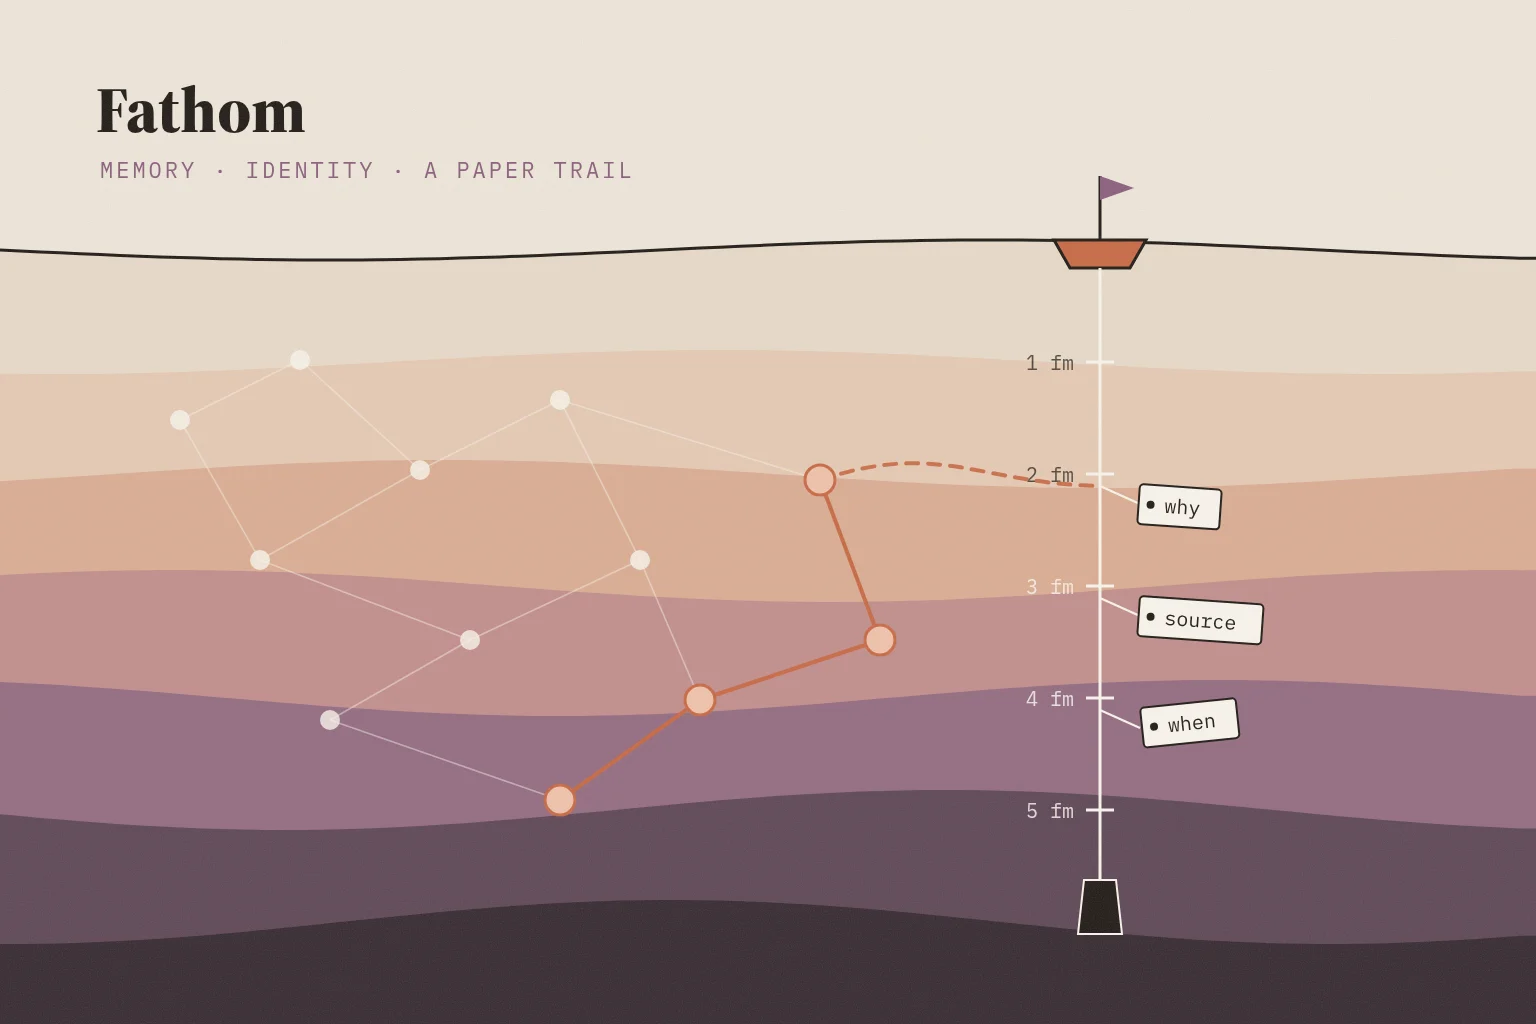
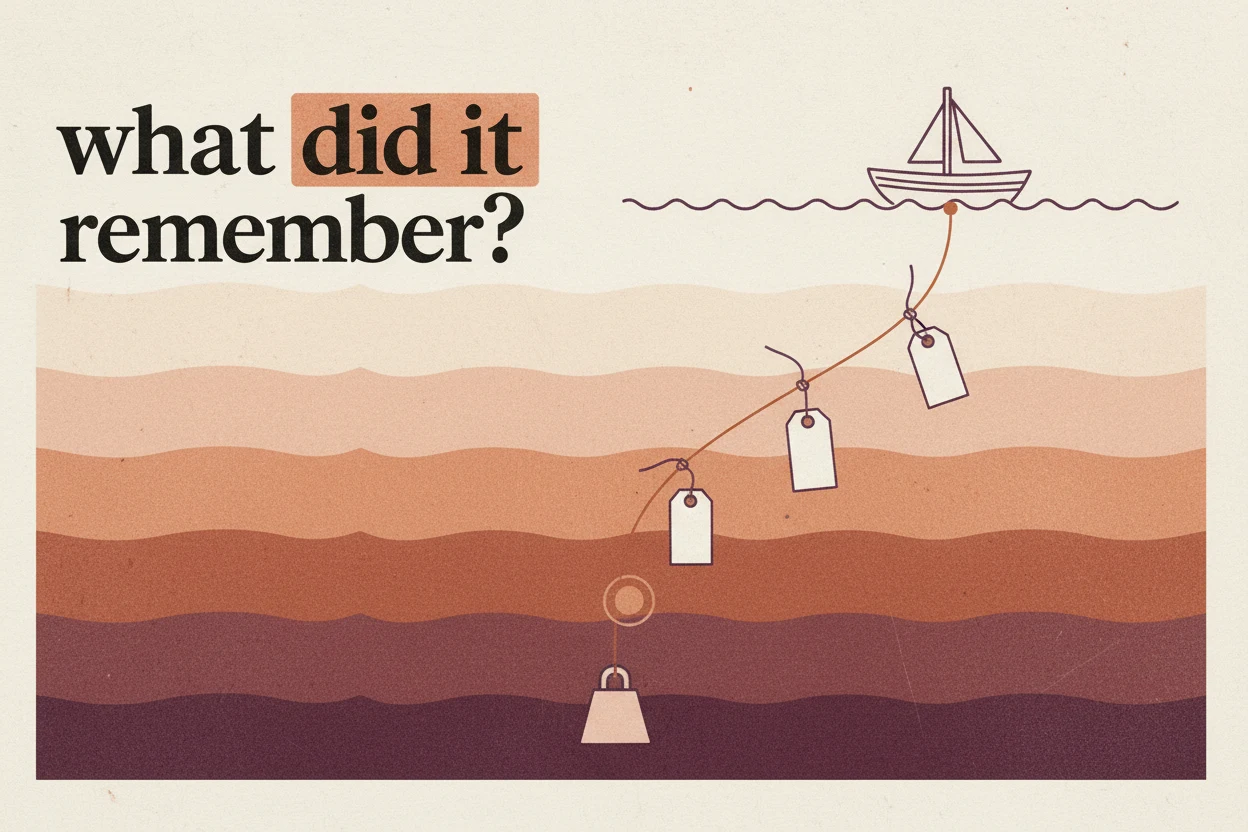
Case-study thumbnails generated with fal.ai in the Jev editorial style

diff --git a/index.html b/index.html
@@ -434,7 +434,7 @@
   </div>
   <div class="sel">
     <a class="sel-card" href="/write-ups/fap/">
-      <img src="/assets/work/fap-thumb.webp" alt="A magnifier over an ocean of provider results, linked to a filtered results list" width="1536" height="1024" loading="lazy">
+      <img src="/assets/work/fap-thumb.webp" alt="The words the ocean first above a sea of result cards, a magnifier linked to a filtered results list" width="1536" height="1024" loading="lazy">
       <div class="sel-pad">
         <div class="sel-meta">Centene · UX Team Lead</div>
         <h3>Find A Provider</h3>
@@ -443,7 +443,7 @@
       </div>
     </a>
     <a class="sel-card" href="/write-ups/gnat/">
-      <img src="/assets/work/gnat-thumb.webp" alt="A setup panel of toggles with commit and undo, wired to the plan site it builds, and a gnat" width="1536" height="1024" loading="lazy">
+      <img src="/assets/work/gnat-thumb.webp" alt="A gnat in flight above toggle switches wired to website wireframes, with the words in an afternoon" width="1536" height="1024" loading="lazy">
       <div class="sel-pad">
         <div class="sel-meta">Centene · Designer</div>
         <h3>GNAT</h3>
@@ -452,7 +452,7 @@
       </div>
     </a>
     <a class="sel-card" href="https://fathomdx.io/" target="_blank" rel="noopener">
-      <img src="/assets/work/fathom-thumb.webp" alt="A sounding line dropped through layers of memory, with paper tags marking why, source and when" width="1536" height="1024" loading="lazy">
+      <img src="/assets/work/fathom-thumb.webp" alt="A boat drops a sounding line through layers of memory, paper tags along the line, with the words what did it remember" width="1536" height="1024" loading="lazy">
       <div class="sel-pad">
         <div class="sel-meta">Independent · Designer · Patent pending</div>
         <h3>Fathom</h3>

diff --git a/write-ups/index.html b/write-ups/index.html
@@ -40,7 +40,7 @@
       content, and design across a three-phase delivery.</p>
       <span class="go">+40% user satisfaction · read the case study →</span>
     </div>
-    <img src="/assets/work/fap-thumb.webp" alt="A magnifier over an ocean of provider results, linked to a filtered results list" loading="lazy">
+    <img src="/assets/work/fap-thumb.webp" alt="The words the ocean first above a sea of result cards, a magnifier linked to a filtered results list" loading="lazy">
   </a>
 
   <a class="cs-card" data-category="case-study" href="/write-ups/gnat/">
@@ -52,7 +52,7 @@
       steps visible, committable and reversible.</p>
       <span class="go">about 60% faster setup · read the case study →</span>
     </div>
-    <img src="/assets/work/gnat-thumb.webp" alt="A setup panel of toggles with commit and undo, wired to the plan site it builds, and a gnat" loading="lazy">
+    <img src="/assets/work/gnat-thumb.webp" alt="A gnat in flight above toggle switches wired to website wireframes, with the words in an afternoon" loading="lazy">
   </a>
 
   <a class="cs-card" href="https://fathomdx.io/" target="_blank" rel="noopener">
@@ -64,7 +64,7 @@
       Postgres/pgvector store.</p>
       <span class="go">fathomdx.io →</span>
     </div>
-    <img src="/assets/work/fathom-thumb.webp" alt="A sounding line dropped through layers of memory, with paper tags marking why, source and when" loading="lazy">
+    <img src="/assets/work/fathom-thumb.webp" alt="A boat drops a sounding line through layers of memory, paper tags along the line, with the words what did it remember" loading="lazy">
   </a>
 
   <a class="cs-card" data-category="case-study" href="/write-ups/design-explorations/">

diff --git a/write-ups/gnat/index.html b/write-ups/gnat/index.html
@@ -43,7 +43,7 @@
 
   <div class="paper">
     <figure>
-      <img src="/assets/work/gnat-thumb.webp" alt="A setup panel of toggles with commit and undo, wired to the plan site it builds, and a gnat" loading="lazy">
+      <img src="/assets/work/gnat-thumb.webp" alt="A gnat in flight above toggle switches wired to website wireframes, with the words in an afternoon" loading="lazy">
     </figure>
     <h2>The Problem</h2>
     <p>At Centene, standing up the website for a new insurance plan took weeks
